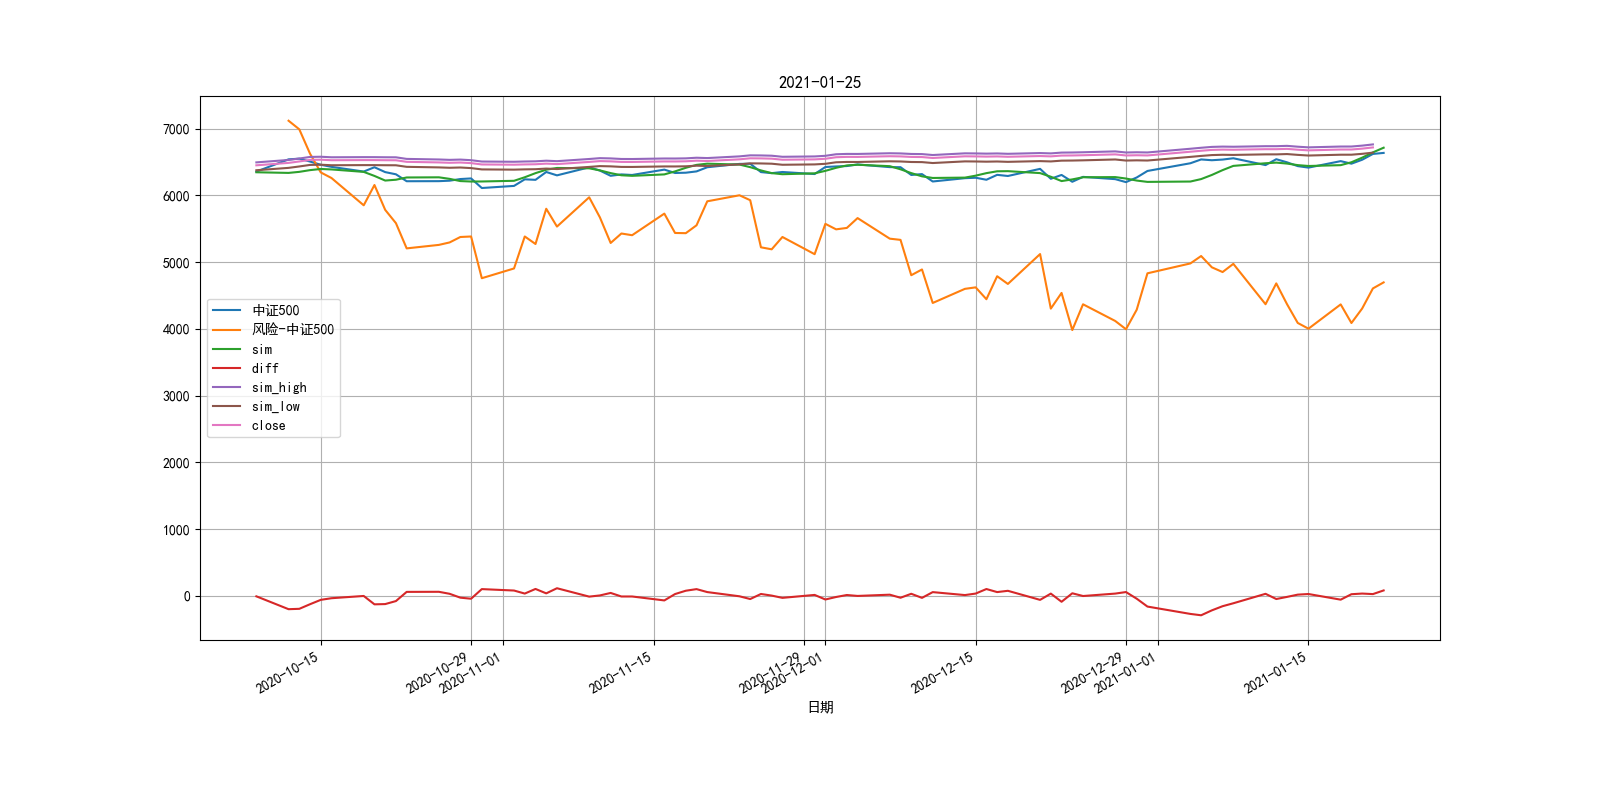
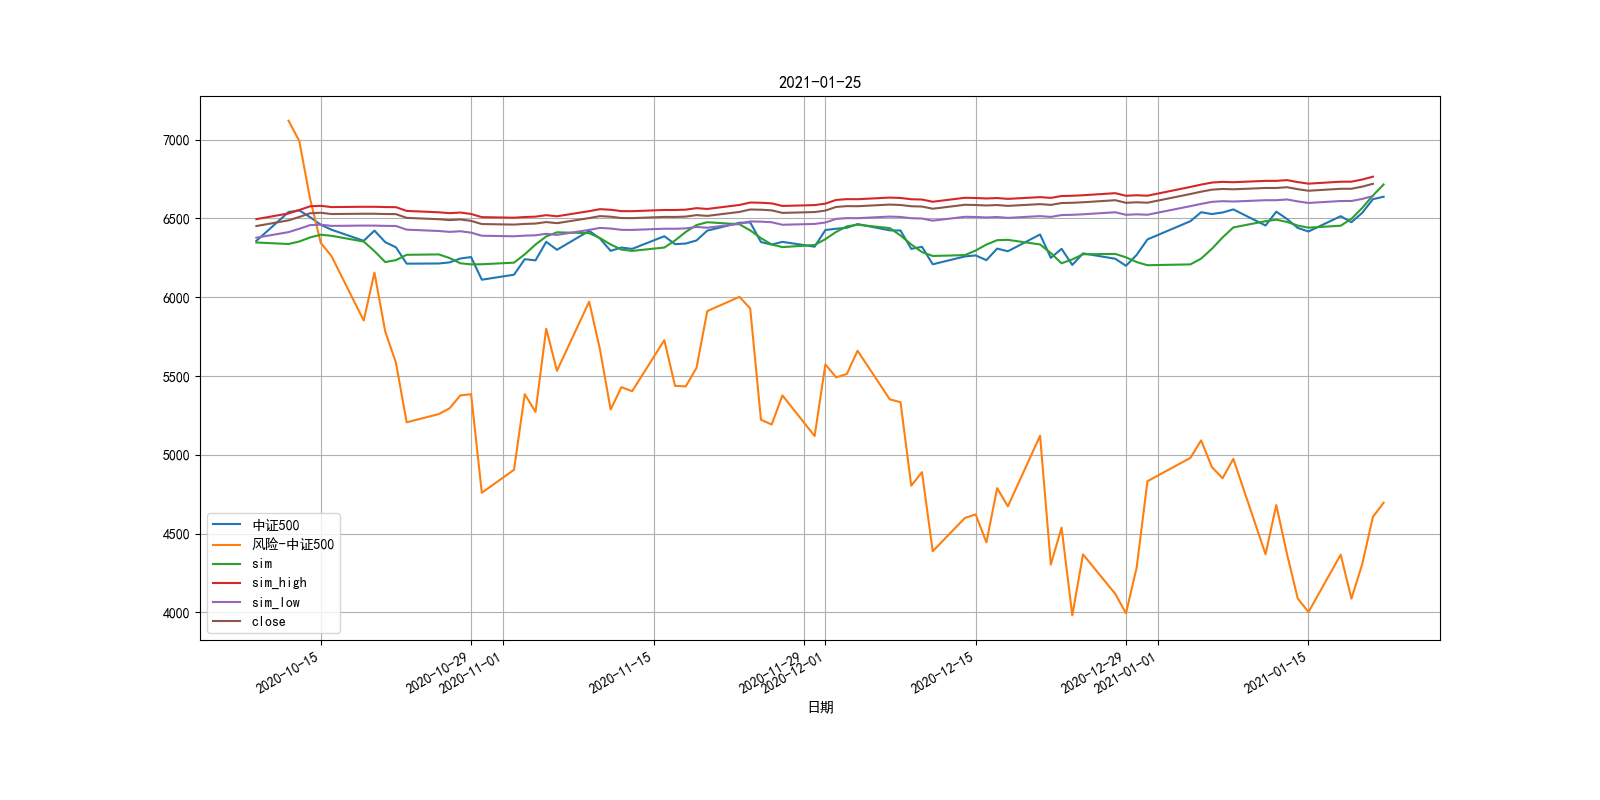
daily commit

diff --git a/src/study/history/model_trainer.py b/src/study/history/model_trainer.py
@@ -66,6 +66,7 @@ def multiple_factor_trainer():
     
     features=features[features["最高价"]<8000]
     features=features.dropna()
+    features=features[:1000]
     
     m1 = mu.train_model(np.array(features["lever"].tolist()),np.array(features["最高价"].tolist()))
     m2 = mu.train_model(np.array(features["lever"].tolist()),np.array(features["最低价"].tolist()))
@@ -91,7 +92,7 @@ def multiple_factor_trainer():
     f_open=features[["开盘价"]]
     f_open["sim_open"]=m3[1]
 #     f_open.plot(grid=True)
-    f_sim=features[["sim_high","sim_low","sim_close"]]
+    f_sim=features[["sim_close","收盘价"]]
     f_sim.plot(grid=True)
     
     plt.show()

diff --git a/src/study/realtime_v2.py b/src/study/realtime_v2.py
@@ -234,7 +234,7 @@ def draw_graph(risk=True, show_diff=True):
     
     
 
-draw_graph(show_diff=True)
+draw_graph(show_diff=False)
 
 # train_model()
 # draw_predict(80)
